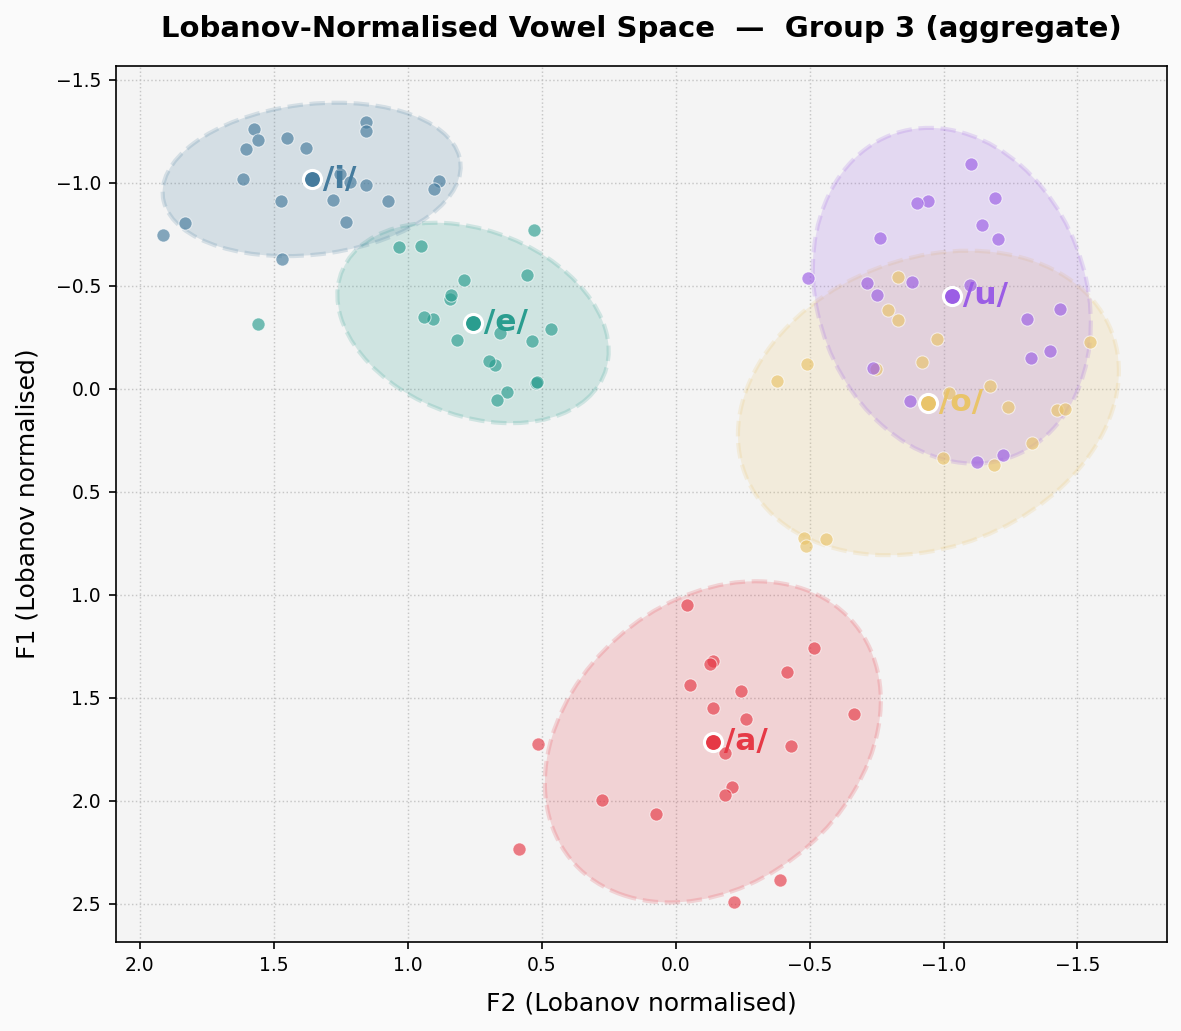
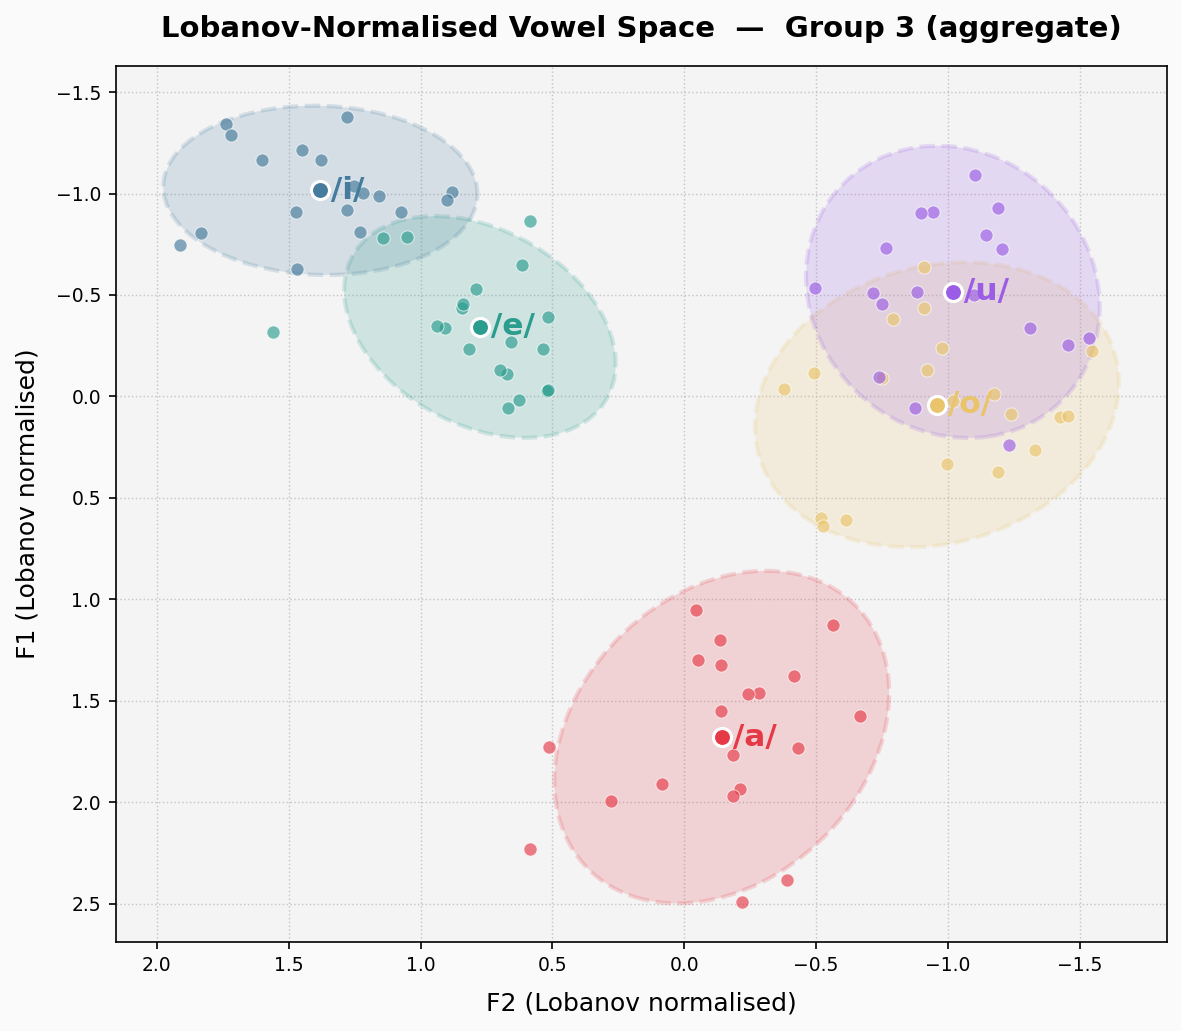
clean up data

diff --git a/README.md b/README.md
@@ -71,8 +71,8 @@ The CSV should be comma-separated with the following columns:
 
 **Midpoints (`.txt`)** — the F1 and F2 normalised centroid coordinates for each vowel cluster, also printed to the terminal on each run.
 
-These will be outputted for each individual speaker, and an aggregate plot and midpoints will be outputted for each group.
-
+- These will be outputted for each individual speaker, and an aggregate plot and midpoints will be outputted for each group.
+- A preview of the output given the current data.csv file can be viewed in the ```results/``` folder
 ---
 
 ## Acknowledgements